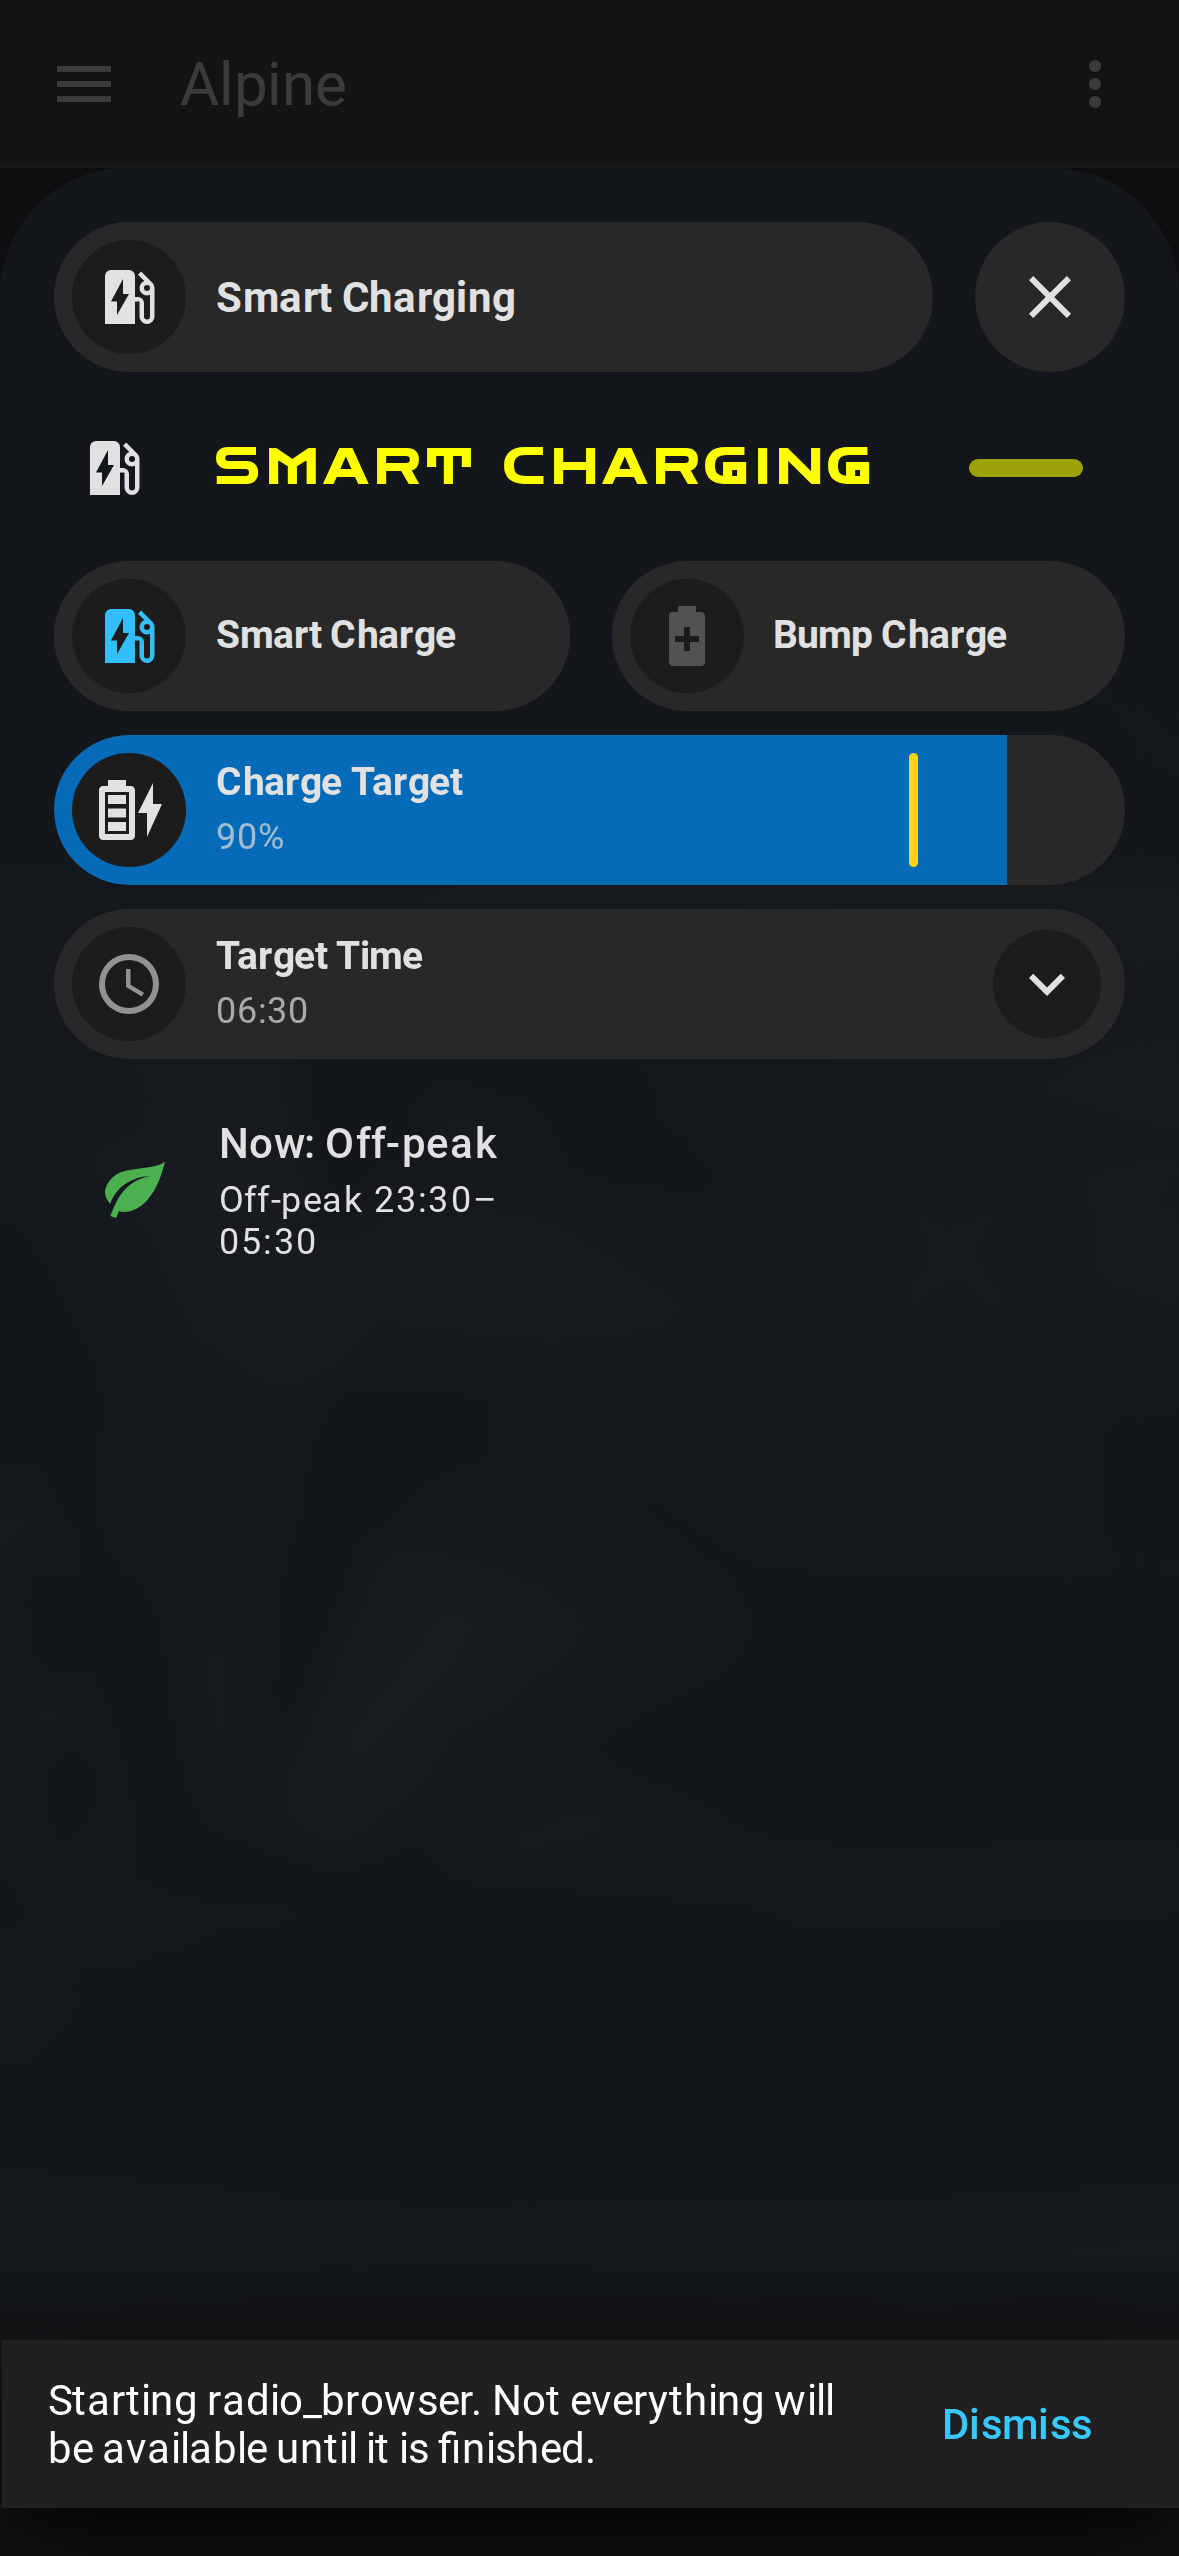
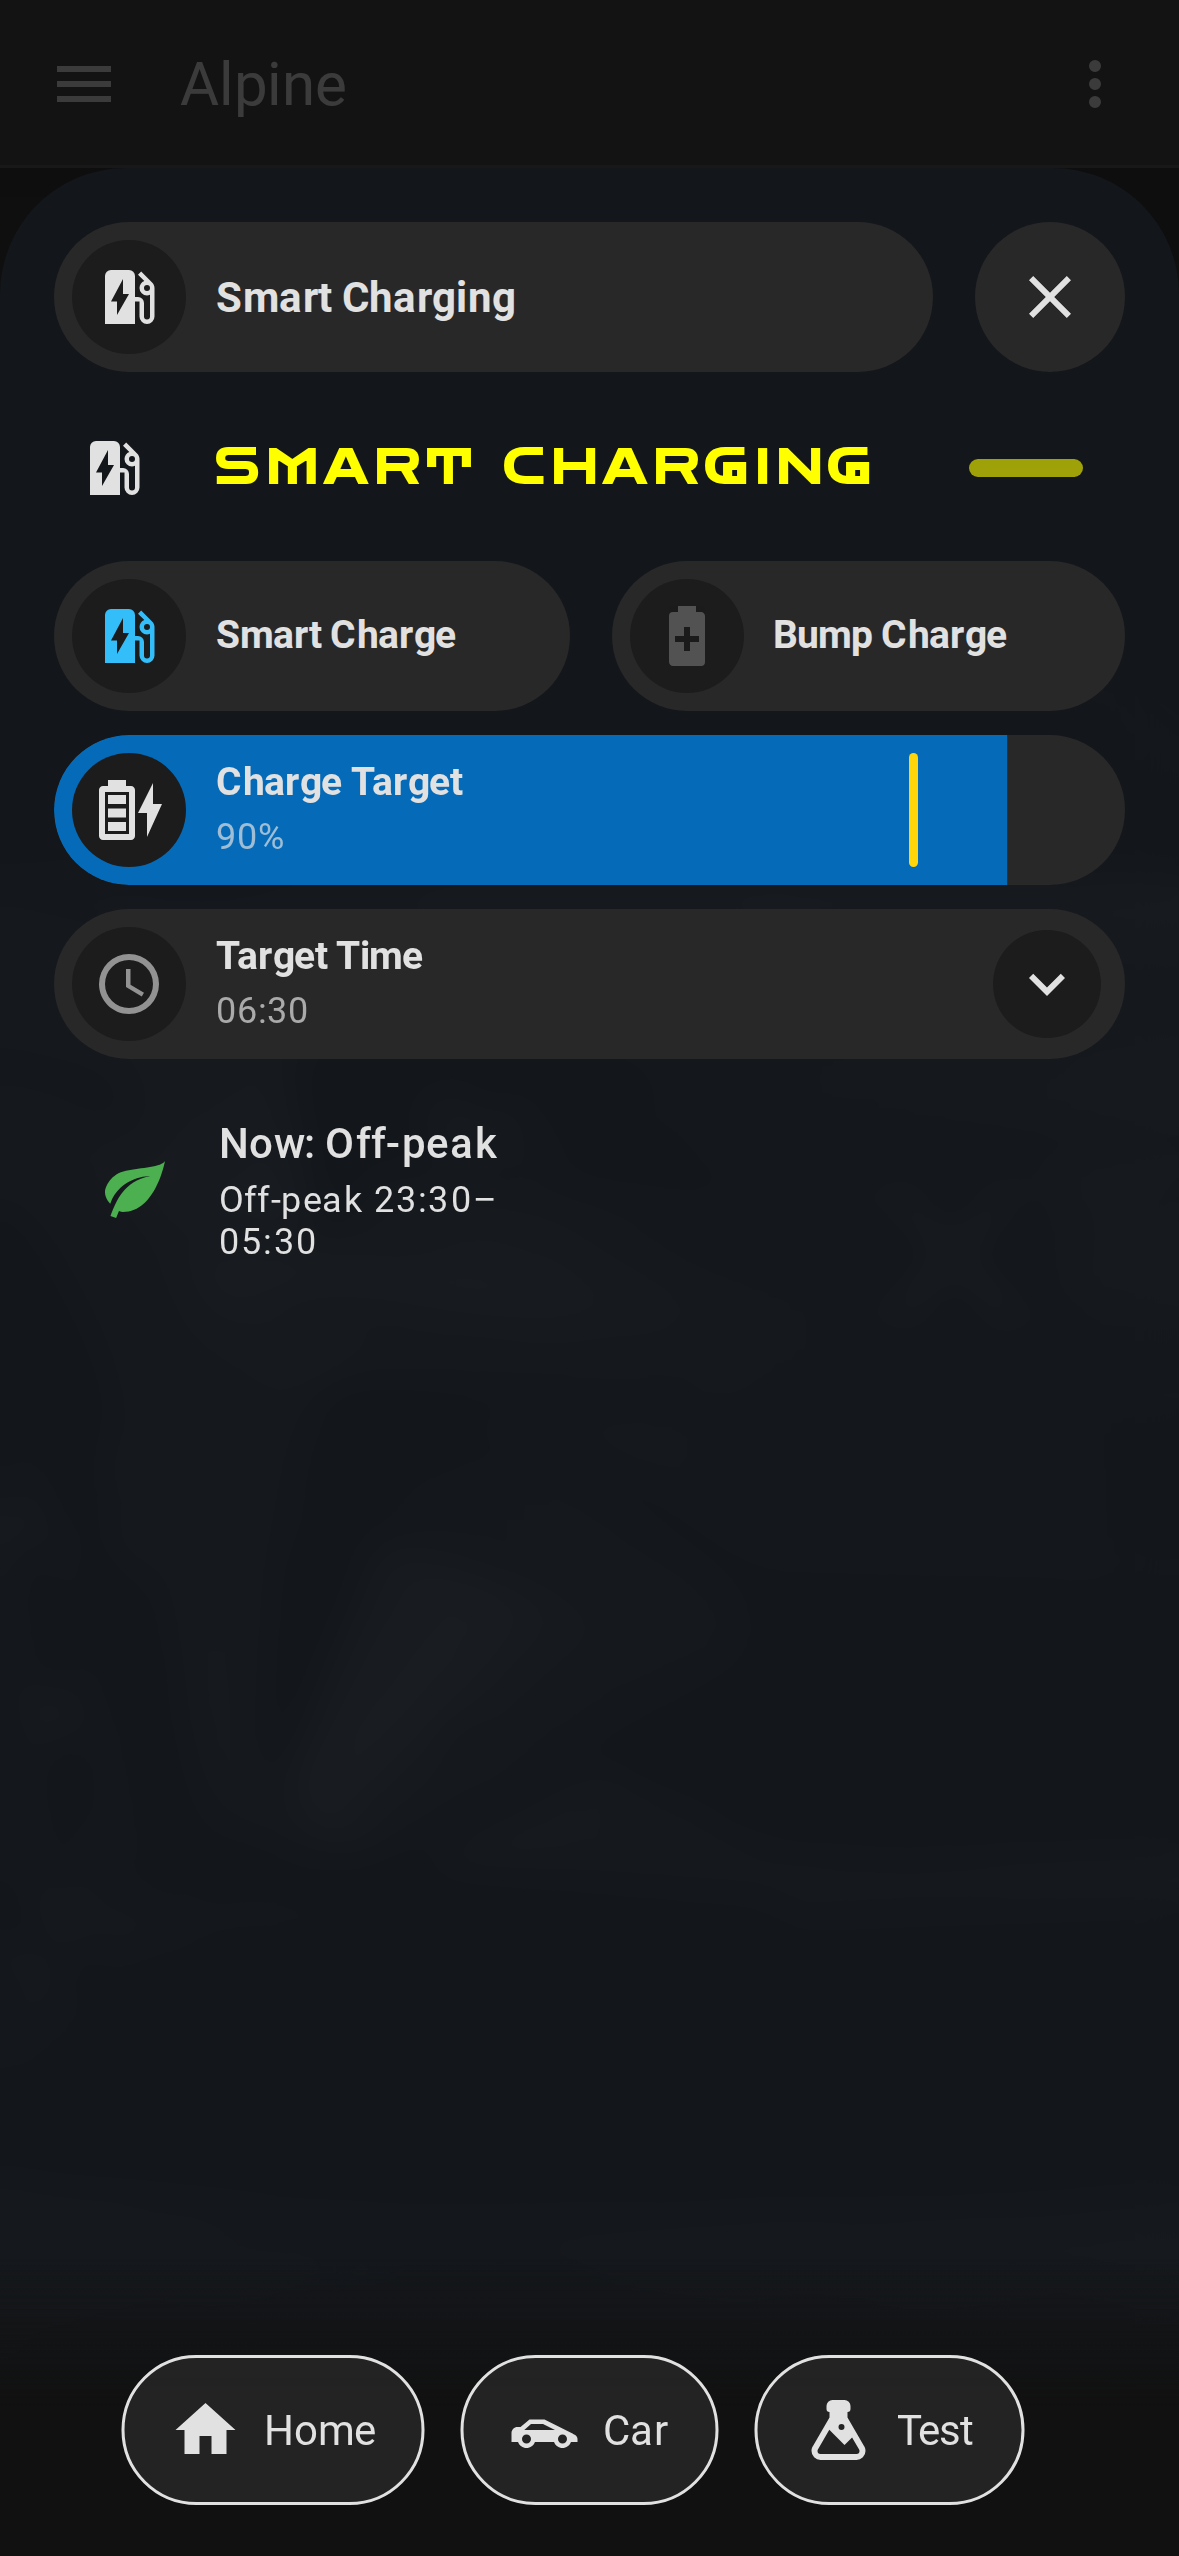
deploy: 15s per-receive timeout on _WS._cmd so a wedged socket can't hang the deploy (v1.16.1) (#40)
* deploy: add 15s per-receive timeout to _WS._cmd so a wedged socket can't hang the deploy (v1.16.1)

* chore: refresh dashboard screenshots [refresh-shots]

Changed region(s): [[0.0305, 0.9272, 0.7328, 0.989], [0.7634, 0.9272, 0.916, 0.9581]]

diff --git a/alpine_a290/tests/test_deploy.py b/alpine_a290/tests/test_deploy.py
@@ -426,6 +426,35 @@ def test_ws_raises_on_failed_result():
     asyncio.run(scenario())
 
 
+def test_ws_cmd_times_out_on_wedged_socket(monkeypatch):
+    """A socket that never delivers the matching result must not hang the deploy: _cmd wraps
+    each receive in asyncio.wait_for, so a wedged frame raises TimeoutError instead of blocking
+    forever. The per-receive timeout is shortened here so the test is fast and fails cleanly
+    (rather than hanging) if the guard is ever removed."""
+    import pytest
+
+    class WS:
+        async def send_json(self, payload):
+            pass
+
+        async def receive_json(self):
+            # Delivers a valid result, but only after longer than the (shortened) timeout —
+            # so with the guard the wait_for fires first; without it, _cmd would return.
+            await asyncio.sleep(0.5)
+            return {"id": 1, "type": "result", "success": True, "result": None}
+
+    real_wait_for = asyncio.wait_for
+    monkeypatch.setattr(deploy.asyncio, "wait_for",
+                        lambda aw, timeout: real_wait_for(aw, timeout=0.05))
+
+    async def scenario():
+        api = deploy._WS(None, WS(), "token")
+        with pytest.raises((asyncio.TimeoutError, TimeoutError)):
+            await api.dashboards()
+
+    asyncio.run(scenario())
+
+
 def test_ws_auth_failure_raises():
     import pytest
 

diff --git a/alpine_a290/app/deploy.py b/alpine_a290/app/deploy.py
@@ -4,6 +4,7 @@ Reads the bundled dashboard YAML, rewrites its /local image refs to jsDelivr CDN
 (served from this repo), registers the Zen Dots font, and creates + pushes the dashboard
 via HA's WebSocket API. Create-once (left alone unless redeploy_dashboard); never fatal.
 """
+import asyncio
 import logging
 import os
 import re
@@ -360,7 +361,8 @@ class _WS:
         payload["id"] = self._id
         await self._ws.send_json(payload)
         while True:
-            msg = await self._ws.receive_json()
+            # Per-receive timeout so an unexpected event/close frame can't hang the deploy.
+            msg = await asyncio.wait_for(self._ws.receive_json(), timeout=15)
             if msg.get("id") == self._id and msg.get("type") == "result":
                 if not msg.get("success", False):
                     raise RuntimeError(f"{payload['type']} failed: {msg.get('error')}")

diff --git a/alpine_a290/CHANGELOG.md b/alpine_a290/CHANGELOG.md
@@ -1,5 +1,11 @@
 # Changelog
 
+## 1.16.1
+
+- **Dashboard deploy can no longer hang indefinitely.** The HA WebSocket client now wraps each
+  receive in a 15s per-receive timeout, so an unexpected event/close frame raises a timeout
+  instead of blocking the deploy forever. (Brings the A290 in line with the R5 add-on.)
+
 ## 1.16.0
 
 - **Base image moved off end-of-life Alpine 3.19 to current Alpine 3.24** (HA base image
